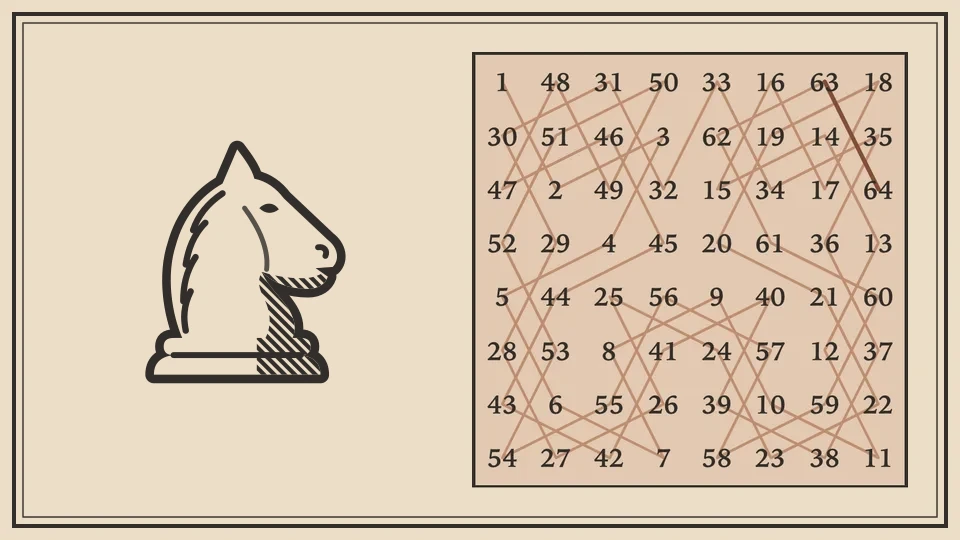
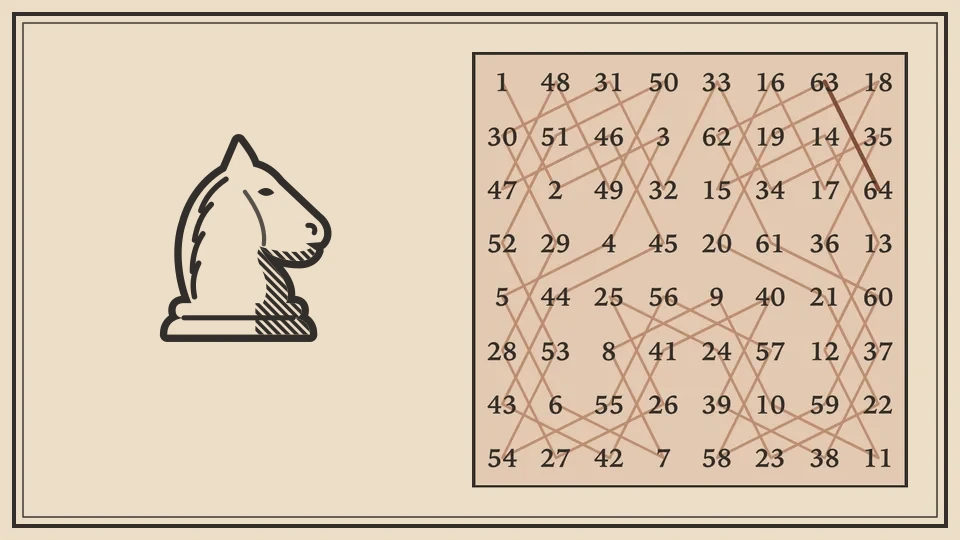
fix(騎士巡遊): 小卡片的騎士縮到 2.1 倍 —— 名字底下多了一行 Knight's Tour
平台的名字換成兩行（中文名＋襯線斜體）之後，名字頂到騎士的底座。騎士縮小、往上移，夾在「可以玩」與兩行名字中間。

Claude-Session: https://claude.ai/code/session_01EqQDVyvUi4wL1aNNbw3Nm1

Changed region(s): [[0.125, 0.237, 0.375, 0.7111]]

diff --git a/CLAUDE.md b/CLAUDE.md
@@ -210,7 +210,7 @@ nudge { by, at }          最近一次「催一下」
 
   - 盲眼五子棋：試做中，視覺在 `feat/game-blind-gomoku`。
 
-  - 騎士巡遊（`feat/game-knights-tour`）：原件是歐拉 1759 的數學版畫、18 世紀紅粉筆素描；最外緣銅版雙線框（`.kt-frame`）；主視覺 `plate.webp`，首頁 Fig. 1 是歐拉的走法（`euler.ts`，有測試）。平台小卡片 `card.webp` 是同一張、左邊空白的紙上多一隻對局裡的騎士（10/25 Zach：「偏空泛」；2.45 倍、對局同線寬，夾在「可以玩」與名字中間，細線版與跳進「1」的弧線也試過）；大卡片照舊 `plate.webp`（桌機字壓在左邊，騎士會被字蓋住）。favicon 是紙上一枚銅版畫的騎士（對局裡同一隻，線條加粗）、外圈一道墨線（`public/icons/knights-tour.*`）。
+  - 騎士巡遊（`feat/game-knights-tour`）：原件是歐拉 1759 的數學版畫、18 世紀紅粉筆素描；最外緣銅版雙線框（`.kt-frame`）；主視覺 `plate.webp`，首頁 Fig. 1 是歐拉的走法（`euler.ts`，有測試）。平台小卡片 `card.webp` 是同一張、左邊空白的紙上多一隻對局裡的騎士（10/25 Zach：「偏空泛」；2.1 倍、對局同線寬，夾在「可以玩」與兩行的名字（中文名＋襯線斜體的 Knight’s Tour）中間，細線版與跳進「1」的弧線也試過）；大卡片照舊 `plate.webp`（桌機字壓在左邊，騎士會被字蓋住）。favicon 是紙上一枚銅版畫的騎士（對局裡同一隻，線條加粗）、外圈一道墨線（`public/icons/knights-tour.*`）。
     聲音是歐拉那個年代的書房（`knights-tour/sounds.ts`，配方寫在檔頭）：騎士每跳一步彈一聲大鍵琴、音高看落在第幾列（D 大調，整條路就是一段旋律），點錯是鵝毛筆刮紙、悔棋是擦紅粉筆、重來是翻一頁紙，走完琶音、封閉巡遊再加一段終止式顫音；聲音開關在對局右上（手機）／標題旁（桌機）。
     騎士本身畫在 `knightArt.ts`（10/25 Zach：「騎士希望可以好看一點」；銅版畫、墨色圓章、紅粉筆的馬三種裡他選了銅版畫，另外兩種刪掉了；對局的 SVG、規則圖與分享圖的 Canvas 讀同一份圖層），面向前進的方向（往左跳就左右翻）。
     騎士沿「日」字真的跳過去（10/25 Zach：「也許可以有跳過去的動畫」）：蹲一下 → 沿先長邊後短邊的弧線拋起、空中拉長 → 落地壓扁再彈回，320ms、約 224ms 落地，腳下一團排線的影子跟著、紅粉筆跟著畫過去（`motion.ts`，只動 transform／opacity、關鍵影格事先算好）。
